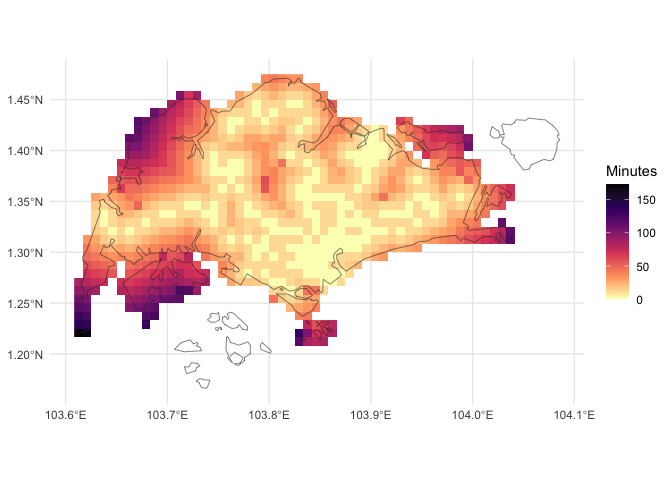
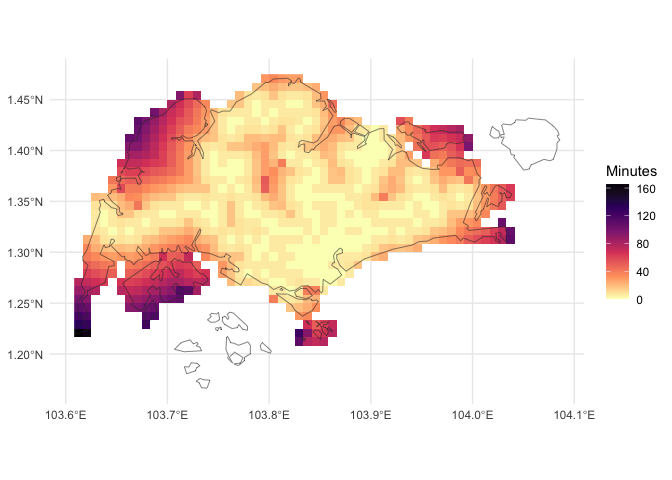
Deploying to gh-pages from @ idem-lab/traveltime@6abc8bca174c20c7cedf1c21e7daac96f7b27928 🚀

diff --git a/index.html b/index.html
@@ -61,7 +61,12 @@
 <p><code>traveltime</code> enables a user to create a map of travel time over an area of interest from a user-specified set of geographic coordinates and friction surface. The package provides convenient access to global friction surfaces for walking and motorised travel for the year 2020. The final result is a raster of the area of interest where the value in each cell is the lowest travel time in minutes to any of the specified locations.</p>
 <figure><img src="reference/figures/README-fig-result-1.png" style="width:60.0%" data-fig-align="right" alt="Walking travel time from rail transport in Singapore"><figcaption aria-hidden="true">
 Walking travel time from rail transport in Singapore
-</figcaption></figure><div class="section level2">
+</figcaption></figure><p><br></p>
+<blockquote>
+<p><strong>Note:</strong> The internals of <code><a href="reference/calculate_travel_time.html">calculate_travel_time()</a></code> have been reimplemented on <code><a href="https://rspatial.github.io/terra/reference/costDist.html" class="external-link">terra::costDist()</a></code>, replacing the previous <code>raster</code> and <code>gdistance</code> machinery. This produces effectively the same result while dropping two superseded dependencies. For the evidence that the switch is safe — and a characterisation of the small differences between the two approaches — see the <a href="https://idem-lab.github.io/traveltime/articles/costdist-validation.html">validation article</a>.</p>
+</blockquote>
+<p><br></p>
+<div class="section level2">
 <h2 id="installation">Installation<a class="anchor" aria-label="anchor" href="#installation"></a>
 </h2>
 <div class="sourceCode" id="cb1"><pre class="downlit sourceCode r">
@@ -130,7 +135,7 @@ Walking travel time from rail transport in Singapore
 <p>To obtain our area of interest, we download a national-level polygon boundary of Singapore using the <code>geodata</code> package. Here we download only the national boundary (<code>level = 0</code>) at a low resolution (<code>resolution = 2</code>). Our boundary <code>singapore_shapefile</code> is a <code>SpatVector</code> class object from the package <code>terra</code>.</p>
 <div class="sourceCode" id="cb4"><pre class="downlit sourceCode r">
 <code class="sourceCode R"><span><span class="kw"><a href="https://rdrr.io/r/base/library.html" class="external-link">library</a></span><span class="op">(</span><span class="va"><a href="https://rspatial.org/" class="external-link">terra</a></span><span class="op">)</span></span>
-<span><span class="co">#&gt; terra 1.8.46</span></span>
+<span><span class="co">#&gt; terra 1.9.38</span></span>
 <span><span class="kw"><a href="https://rdrr.io/r/base/library.html" class="external-link">library</a></span><span class="op">(</span><span class="va"><a href="https://rspatial.github.io/geodata/" class="external-link">geodata</a></span><span class="op">)</span></span>
 <span></span>
 <span><span class="va">singapore_shapefile</span> <span class="op">&lt;-</span> <span class="fu"><a href="https://rspatial.github.io/geodata/reference/gadm.html" class="external-link">gadm</a></span><span class="op">(</span></span>
@@ -139,16 +144,17 @@ Walking travel time from rail transport in Singapore
 <span>  path <span class="op">=</span> <span class="fu"><a href="https://rdrr.io/r/base/tempfile.html" class="external-link">tempdir</a></span><span class="op">(</span><span class="op">)</span>,</span>
 <span>  resolution <span class="op">=</span> <span class="fl">2</span></span>
 <span><span class="op">)</span></span>
+<span><span class="co">#&gt; Cached as: /var/folders/fy/q_4bsfgn7l97_fd57hmxml3h0000gp/T//RtmpCLwMZu/gadm/gadm41_SGP_0_pk_low.rds</span></span>
 <span></span>
 <span><span class="va">singapore_shapefile</span></span>
-<span><span class="co">#&gt;  class       : SpatVector </span></span>
-<span><span class="co">#&gt;  geometry    : polygons </span></span>
-<span><span class="co">#&gt;  dimensions  : 1, 2  (geometries, attributes)</span></span>
-<span><span class="co">#&gt;  extent      : 103.6091, 104.0858, 1.1664, 1.4714  (xmin, xmax, ymin, ymax)</span></span>
-<span><span class="co">#&gt;  coord. ref. : lon/lat WGS 84 (EPSG:4326) </span></span>
-<span><span class="co">#&gt;  names       : GID_0   COUNTRY</span></span>
-<span><span class="co">#&gt;  type        : &lt;chr&gt;     &lt;chr&gt;</span></span>
-<span><span class="co">#&gt;  values      :   SGP Singapore</span></span></code></pre></div>
+<span><span class="co">#&gt; class       : SpatVector</span></span>
+<span><span class="co">#&gt; geometry    : polygons</span></span>
+<span><span class="co">#&gt; dimensions  : 1, 2  (geometries, attributes)</span></span>
+<span><span class="co">#&gt; extent      : 103.6091, 104.0858, 1.1664, 1.4714  (xmin, xmax, ymin, ymax)</span></span>
+<span><span class="co">#&gt; coord. ref. : lon/lat WGS 84 (EPSG:4326)</span></span>
+<span><span class="co">#&gt; names       : GID_0   COUNTRY</span></span>
+<span><span class="co">#&gt; type        : &lt;chr&gt;     &lt;chr&gt;</span></span>
+<span><span class="co">#&gt; values      :   SGP Singapore</span></span></code></pre></div>
 </div>
 <div class="section level5">
 <h5 id="friction-surface">Friction surface<a class="anchor" aria-label="anchor" href="#friction-surface"></a>
@@ -164,30 +170,33 @@ Walking travel time from rail transport in Singapore
 <span>    extent <span class="op">=</span> <span class="va">singapore_shapefile</span></span>
 <span>  <span class="op">)</span><span class="op">|&gt;</span> </span>
 <span>  <span class="fu"><a href="https://rspatial.github.io/terra/reference/mask.html" class="external-link">mask</a></span><span class="op">(</span><span class="va">singapore_shapefile</span><span class="op">)</span></span>
+<span><span class="co">#&gt; Registered S3 method overwritten by 'malariaAtlas':</span></span>
+<span><span class="co">#&gt;   method           from   </span></span>
+<span><span class="co">#&gt;   autoplot.default ggplot2</span></span>
 <span><span class="co">#&gt; Checking if the following Surface-Year combinations are available to download:</span></span>
 <span><span class="co">#&gt; </span></span>
 <span><span class="co">#&gt;     DATASET ID  YEAR</span></span>
 <span><span class="co">#&gt;   - Accessibility__202001_Global_Walking_Only_Friction_Surface:  DEFAULT</span></span>
 <span><span class="co">#&gt; </span></span>
 <span><span class="co">#&gt; Loading required package: sf</span></span>
-<span><span class="co">#&gt; Linking to GEOS 3.13.0, GDAL 3.8.5, PROJ 9.5.1; sf_use_s2() is FALSE</span></span>
+<span><span class="co">#&gt; Linking to GEOS 3.14.1, GDAL 3.8.5, PROJ 9.5.1; sf_use_s2() is FALSE</span></span>
 <span><span class="co">#&gt; No encoding supplied: defaulting to UTF-8.</span></span>
 <span><span class="co">#&gt; &lt;GMLEnvelope&gt;</span></span>
 <span><span class="co">#&gt; ....|-- lowerCorner: 1.1664 103.6091</span></span>
-<span><span class="co">#&gt; ....|-- upperCorner: 1.4714 104.0858Start tag expected, '&lt;' not found</span></span></code></pre></div>
+<span><span class="co">#&gt; ....|-- upperCorner: 1.4714 104.0858</span></span></code></pre></div>
 <p>Thus we have our friction surface as a <code>SpatRaster</code>:</p>
 <div class="sourceCode" id="cb6"><pre class="downlit sourceCode r">
 <code class="sourceCode R"><span><span class="va">friction_singapore</span></span>
-<span><span class="co">#&gt; class       : SpatRaster </span></span>
-<span><span class="co">#&gt; dimensions  : 37, 57, 1  (nrow, ncol, nlyr)</span></span>
+<span><span class="co">#&gt; class       : SpatRaster</span></span>
+<span><span class="co">#&gt; size        : 37, 57, 1  (nrow, ncol, nlyr)</span></span>
 <span><span class="co">#&gt; resolution  : 0.008333333, 0.008333333  (x, y)</span></span>
 <span><span class="co">#&gt; extent      : 103.6083, 104.0833, 1.166667, 1.475  (xmin, xmax, ymin, ymax)</span></span>
-<span><span class="co">#&gt; coord. ref. : lon/lat WGS 84 (EPSG:4326) </span></span>
+<span><span class="co">#&gt; coord. ref. : lon/lat WGS 84 (EPSG:4326)</span></span>
 <span><span class="co">#&gt; source(s)   : memory</span></span>
-<span><span class="co">#&gt; varname     : Accessibility__202001_Global_Walking_Only_Friction_Surface_1.1664,103.6091,1.4714,104.0858 </span></span>
-<span><span class="co">#&gt; name        : friction_surface </span></span>
-<span><span class="co">#&gt; min value   :       0.01200000 </span></span>
-<span><span class="co">#&gt; max value   :       0.06192715</span></span></code></pre></div>
+<span><span class="co">#&gt; varname     : Accessibility__202001_Global_Walking_Only_Friction_Surface_1.1664,103.6091,1.4714,104.0858</span></span>
+<span><span class="co">#&gt; name        : friction_surface</span></span>
+<span><span class="co">#&gt; min value   :            0.012</span></span>
+<span><span class="co">#&gt; max value   :         0.061927</span></span></code></pre></div>
 </div>
 <div class="section level5">
 <h5 id="input-data">Input data<a class="anchor" aria-label="anchor" href="#input-data"></a>
@@ -252,15 +261,16 @@ Friction surface raster of Singapore, showing Singapore boundary in grey, and st
 <span><span class="op">)</span></span>
 <span></span>
 <span><span class="va">travel_time_singapore</span></span>
-<span><span class="co">#&gt; class       : SpatRaster </span></span>
-<span><span class="co">#&gt; dimensions  : 37, 57, 1  (nrow, ncol, nlyr)</span></span>
+<span><span class="co">#&gt; class       : SpatRaster</span></span>
+<span><span class="co">#&gt; size        : 37, 57, 1  (nrow, ncol, nlyr)</span></span>
 <span><span class="co">#&gt; resolution  : 0.008333333, 0.008333333  (x, y)</span></span>
 <span><span class="co">#&gt; extent      : 103.6083, 104.0833, 1.166667, 1.475  (xmin, xmax, ymin, ymax)</span></span>
-<span><span class="co">#&gt; coord. ref. :  </span></span>
+<span><span class="co">#&gt; coord. ref. : lon/lat WGS 84 (EPSG:4326)</span></span>
 <span><span class="co">#&gt; source(s)   : memory</span></span>
-<span><span class="co">#&gt; name        : travel_time </span></span>
-<span><span class="co">#&gt; min value   :           0 </span></span>
-<span><span class="co">#&gt; max value   :         Inf</span></span></code></pre></div>
+<span><span class="co">#&gt; varname     : Accessibility__202001_Global_Walking_Only_Friction_Surface_1.1664,103.6091,1.4714,104.0858</span></span>
+<span><span class="co">#&gt; name        : travel_time</span></span>
+<span><span class="co">#&gt; min value   :           0</span></span>
+<span><span class="co">#&gt; max value   :   165.48359</span></span></code></pre></div>
 <div class="section level5">
 <h5 id="plot-results">Plot results<a class="anchor" aria-label="anchor" href="#plot-results"></a>
 </h5>

diff --git a/articles/singapore.html b/articles/singapore.html
@@ -119,7 +119,7 @@ object from the package <code>terra</code>.</p>
 <span>  path <span class="op">=</span> <span class="fu"><a href="https://rdrr.io/r/base/tempfile.html" class="external-link">tempdir</a></span><span class="op">(</span><span class="op">)</span>,</span>
 <span>  resolution <span class="op">=</span> <span class="fl">2</span></span>
 <span><span class="op">)</span></span>
-<span><span class="co">#&gt; Cached as: /tmp/Rtmpkof75c/gadm/gadm41_SGP_0_pk_low.rds</span></span>
+<span><span class="co">#&gt; Cached as: /tmp/RtmpcGlyI0/gadm/gadm41_SGP_0_pk_low.rds</span></span>
 <span></span>
 <span><span class="va">singapore_shapefile</span></span>
 <span><span class="co">#&gt; class       : SpatVector</span></span>

diff --git a/reference/get_friction_surface.html b/reference/get_friction_surface.html
@@ -129,11 +129,9 @@ server may be down or there may be an issue with that package.</p>
 <span class="r-msg co"><span class="r-pr">#&gt;</span>     DATASET ID  YEAR </span>
 <span class="r-msg co"><span class="r-pr">#&gt;</span>   - Accessibility__202001_Global_Motorized_Friction_Surface:  DEFAULT </span>
 <span class="r-msg co"><span class="r-pr">#&gt;</span> </span>
-<span class="r-msg co"><span class="r-pr">#&gt;</span> No encoding supplied: defaulting to UTF-8.</span>
 <span class="r-out co"><span class="r-pr">#&gt;</span> <span style="color: #BBBBBB;">&lt;</span><span style="color: #BBBBBB; text-decoration: underline;">GMLEnvelope</span><span style="color: #BBBBBB;">&gt;</span></span>
 <span class="r-out co"><span class="r-pr">#&gt;</span> ....|-- <span style="font-style: italic;">lowerCorner</span>: <span style="background-color: #BBBBBB;">0 111</span></span>
 <span class="r-out co"><span class="r-pr">#&gt;</span> ....|-- <span style="font-style: italic;">upperCorner</span>: <span style="background-color: #BBBBBB;">1 112</span></span>
-<span class="r-msg co"><span class="r-pr">#&gt;</span> No encoding supplied: defaulting to UTF-8.</span>
 <span class="r-out co"><span class="r-pr">#&gt;</span> class       : SpatRaster</span>
 <span class="r-out co"><span class="r-pr">#&gt;</span> size        : 120, 120, 1  (nrow, ncol, nlyr)</span>
 <span class="r-out co"><span class="r-pr">#&gt;</span> resolution  : 0.008333333, 0.008333333  (x, y)</span>

diff --git a/reference/calculate_travel_time.html b/reference/calculate_travel_time.html
@@ -162,7 +162,6 @@ geographical grids. Journal of Statistical Software
 <span class="r-out co"><span class="r-pr">#&gt;</span> <span style="color: #BBBBBB;">&lt;</span><span style="color: #BBBBBB; text-decoration: underline;">GMLEnvelope</span><span style="color: #BBBBBB;">&gt;</span></span>
 <span class="r-out co"><span class="r-pr">#&gt;</span> ....|-- <span style="font-style: italic;">lowerCorner</span>: <span style="background-color: #BBBBBB;">0 111</span></span>
 <span class="r-out co"><span class="r-pr">#&gt;</span> ....|-- <span style="font-style: italic;">upperCorner</span>: <span style="background-color: #BBBBBB;">1 112</span></span>
-<span class="r-msg co"><span class="r-pr">#&gt;</span> No encoding supplied: defaulting to UTF-8.</span>
 <span class="r-in"><span></span></span>
 <span class="r-in"><span> <span class="va">from_here</span> <span class="op">&lt;-</span> <span class="fu"><a href="https://rdrr.io/r/base/data.frame.html" class="external-link">data.frame</a></span><span class="op">(</span></span></span>
 <span class="r-in"><span>   x <span class="op">=</span> <span class="fu"><a href="https://rdrr.io/r/base/c.html" class="external-link">c</a></span><span class="op">(</span><span class="fl">111.2</span>, <span class="fl">111.9</span><span class="op">)</span>,</span></span>

diff --git a/index.md b/index.md
@@ -13,6 +13,21 @@ Singapore](reference/figures/README-fig-result-1.png)
 
 Walking travel time from rail transport in Singapore
 
+  
+
+> **Note:** The internals of
+> [`calculate_travel_time()`](https://idem-lab.github.io/traveltime/reference/calculate_travel_time.md)
+> have been reimplemented on
+> [`terra::costDist()`](https://rspatial.github.io/terra/reference/costDist.html),
+> replacing the previous `raster` and `gdistance` machinery. This
+> produces effectively the same result while dropping two superseded
+> dependencies. For the evidence that the switch is safe — and a
+> characterisation of the small differences between the two approaches —
+> see the [validation
+> article](https://idem-lab.github.io/traveltime/articles/costdist-validation.html).
+
+  
+
 ## Installation
 
 ``` r
@@ -105,7 +120,7 @@ class object from the package `terra`.
 ``` r
 
 library(terra)
-#> terra 1.8.46
+#> terra 1.9.38
 library(geodata)
 
 singapore_shapefile <- gadm(
@@ -114,16 +129,17 @@ singapore_shapefile <- gadm(
   path = tempdir(),
   resolution = 2
 )
+#> Cached as: /var/folders/fy/q_4bsfgn7l97_fd57hmxml3h0000gp/T//RtmpCLwMZu/gadm/gadm41_SGP_0_pk_low.rds
 
 singapore_shapefile
-#>  class       : SpatVector 
-#>  geometry    : polygons 
-#>  dimensions  : 1, 2  (geometries, attributes)
-#>  extent      : 103.6091, 104.0858, 1.1664, 1.4714  (xmin, xmax, ymin, ymax)
-#>  coord. ref. : lon/lat WGS 84 (EPSG:4326) 
-#>  names       : GID_0   COUNTRY
-#>  type        : <chr>     <chr>
-#>  values      :   SGP Singapore
+#> class       : SpatVector
+#> geometry    : polygons
+#> dimensions  : 1, 2  (geometries, attributes)
+#> extent      : 103.6091, 104.0858, 1.1664, 1.4714  (xmin, xmax, ymin, ymax)
+#> coord. ref. : lon/lat WGS 84 (EPSG:4326)
+#> names       : GID_0   COUNTRY
+#> type        : <chr>     <chr>
+#> values      :   SGP Singapore
 ```
 
 ##### Friction surface
@@ -155,17 +171,20 @@ friction_singapore <- get_friction_surface(
     extent = singapore_shapefile
   )|> 
   mask(singapore_shapefile)
+#> Registered S3 method overwritten by 'malariaAtlas':
+#>   method           from   
+#>   autoplot.default ggplot2
 #> Checking if the following Surface-Year combinations are available to download:
 #> 
 #>     DATASET ID  YEAR
 #>   - Accessibility__202001_Global_Walking_Only_Friction_Surface:  DEFAULT
 #> 
 #> Loading required package: sf
-#> Linking to GEOS 3.13.0, GDAL 3.8.5, PROJ 9.5.1; sf_use_s2() is FALSE
+#> Linking to GEOS 3.14.1, GDAL 3.8.5, PROJ 9.5.1; sf_use_s2() is FALSE
 #> No encoding supplied: defaulting to UTF-8.
 #> <GMLEnvelope>
 #> ....|-- lowerCorner: 1.1664 103.6091
-#> ....|-- upperCorner: 1.4714 104.0858Start tag expected, '<' not found
+#> ....|-- upperCorner: 1.4714 104.0858
 ```
 
 Thus we have our friction surface as a `SpatRaster`:
@@ -173,16 +192,16 @@ Thus we have our friction surface as a `SpatRaster`:
 ``` r
 
 friction_singapore
-#> class       : SpatRaster 
-#> dimensions  : 37, 57, 1  (nrow, ncol, nlyr)
+#> class       : SpatRaster
+#> size        : 37, 57, 1  (nrow, ncol, nlyr)
 #> resolution  : 0.008333333, 0.008333333  (x, y)
 #> extent      : 103.6083, 104.0833, 1.166667, 1.475  (xmin, xmax, ymin, ymax)
-#> coord. ref. : lon/lat WGS 84 (EPSG:4326) 
+#> coord. ref. : lon/lat WGS 84 (EPSG:4326)
 #> source(s)   : memory
-#> varname     : Accessibility__202001_Global_Walking_Only_Friction_Surface_1.1664,103.6091,1.4714,104.0858 
-#> name        : friction_surface 
-#> min value   :       0.01200000 
-#> max value   :       0.06192715
+#> varname     : Accessibility__202001_Global_Walking_Only_Friction_Surface_1.1664,103.6091,1.4714,104.0858
+#> name        : friction_surface
+#> min value   :            0.012
+#> max value   :         0.061927
 ```
 
 ##### Input data
@@ -260,15 +279,16 @@ travel_time_singapore <- calculate_travel_time(
 )
 
 travel_time_singapore
-#> class       : SpatRaster 
-#> dimensions  : 37, 57, 1  (nrow, ncol, nlyr)
+#> class       : SpatRaster
+#> size        : 37, 57, 1  (nrow, ncol, nlyr)
 #> resolution  : 0.008333333, 0.008333333  (x, y)
 #> extent      : 103.6083, 104.0833, 1.166667, 1.475  (xmin, xmax, ymin, ymax)
-#> coord. ref. :  
+#> coord. ref. : lon/lat WGS 84 (EPSG:4326)
 #> source(s)   : memory
-#> name        : travel_time 
-#> min value   :           0 
-#> max value   :         Inf
+#> varname     : Accessibility__202001_Global_Walking_Only_Friction_Surface_1.1664,103.6091,1.4714,104.0858
+#> name        : travel_time
+#> min value   :           0
+#> max value   :   165.48359
 ```
 
 ##### Plot results

diff --git a/articles/singapore.md b/articles/singapore.md
@@ -53,7 +53,7 @@ singapore_shapefile <- gadm(
   path = tempdir(),
   resolution = 2
 )
-#> Cached as: /tmp/Rtmpkof75c/gadm/gadm41_SGP_0_pk_low.rds
+#> Cached as: /tmp/RtmpcGlyI0/gadm/gadm41_SGP_0_pk_low.rds
 
 singapore_shapefile
 #> class       : SpatVector

diff --git a/reference/get_friction_surface.md b/reference/get_friction_surface.md
@@ -104,11 +104,9 @@ ext <- c(111, 112, 0, 1)
 #>     DATASET ID  YEAR 
 #>   - Accessibility__202001_Global_Motorized_Friction_Surface:  DEFAULT 
 #> 
-#> No encoding supplied: defaulting to UTF-8.
 #> <GMLEnvelope>
 #> ....|-- lowerCorner: 0 111
 #> ....|-- upperCorner: 1 112
-#> No encoding supplied: defaulting to UTF-8.
 #> class       : SpatRaster
 #> size        : 120, 120, 1  (nrow, ncol, nlyr)
 #> resolution  : 0.008333333, 0.008333333  (x, y)

diff --git a/reference/calculate_travel_time.md b/reference/calculate_travel_time.md
@@ -131,7 +131,6 @@ ext <- matrix(
 #> <GMLEnvelope>
 #> ....|-- lowerCorner: 0 111
 #> ....|-- upperCorner: 1 112
-#> No encoding supplied: defaulting to UTF-8.
 
  from_here <- data.frame(
    x = c(111.2, 111.9),